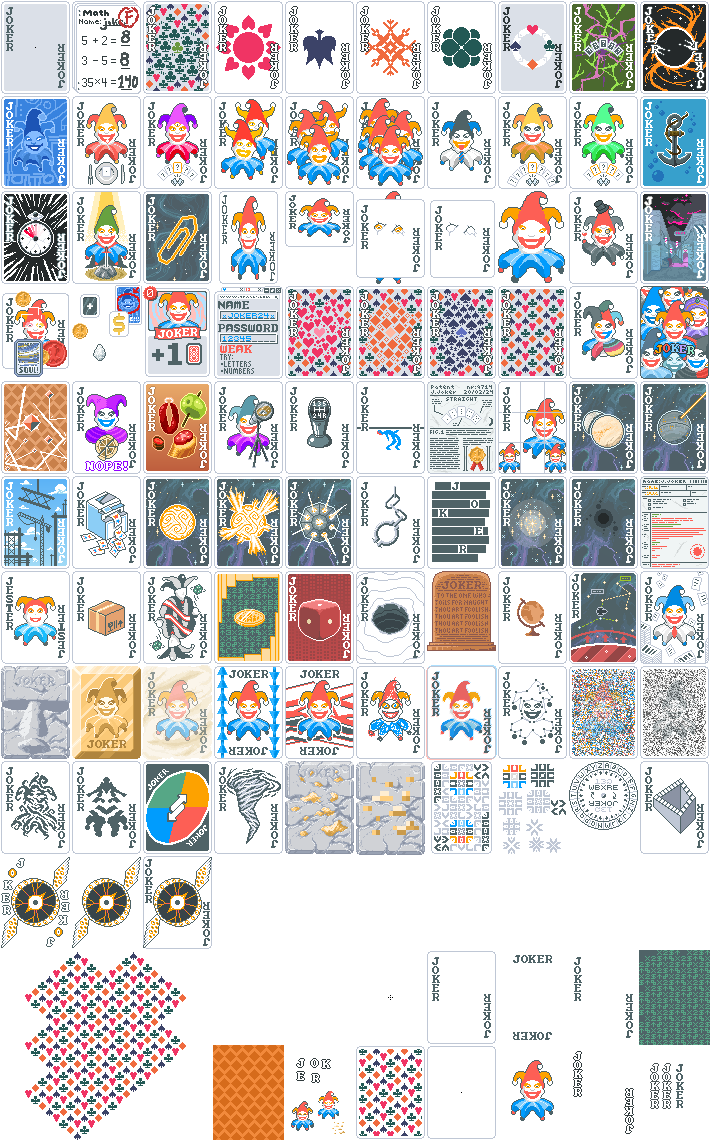
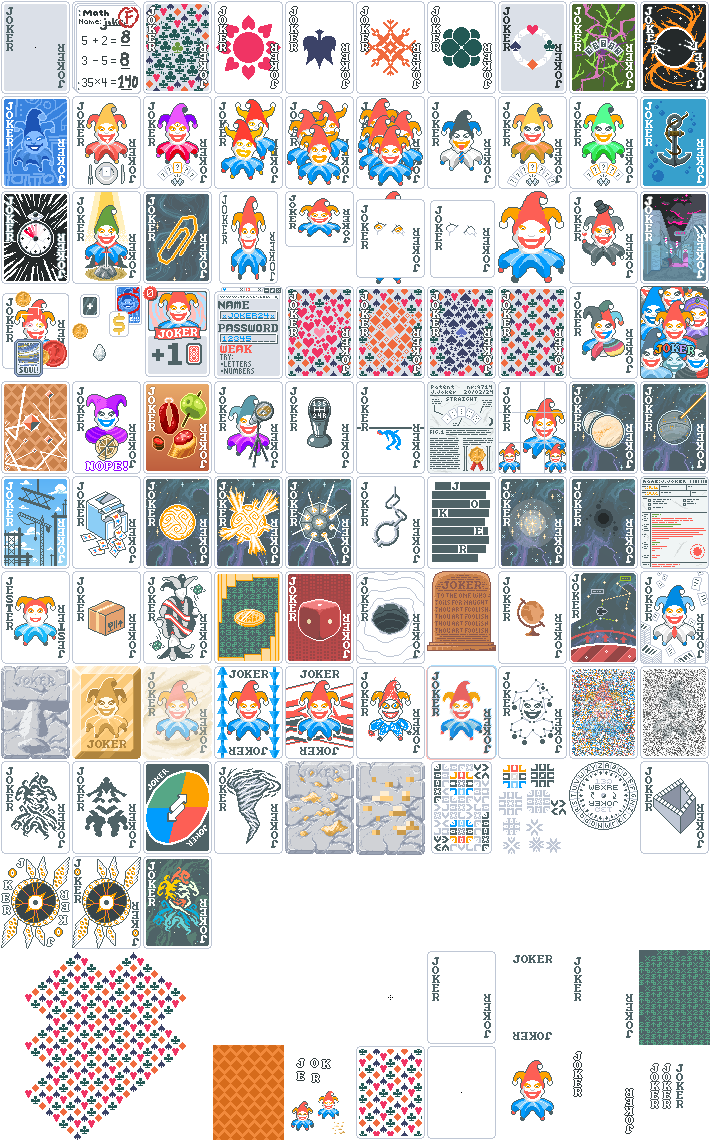
Add Eldritch Joker

diff --git a/web/addjokers.js b/web/addjokers.js
@@ -667,6 +667,14 @@ let jokers = [
     image_url: "img/j/dyson_sphere.png",
     rarity: "Rare"
   },
+  {
+    name: "Eldritch Joker",
+    text: [
+        "For every {C:attention}2{} levels in played {C:attention}poker hand{}, retrigger a random played card"
+    ],
+    image_url: "img/j/eldritch.png",
+    rarity: "Rare"
+  },
 
   // {
   //   name: "",
